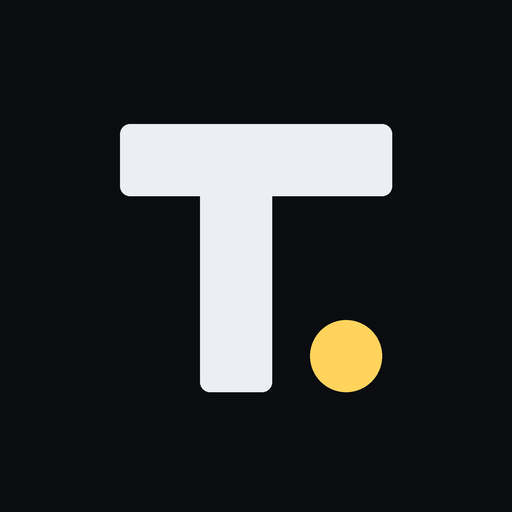
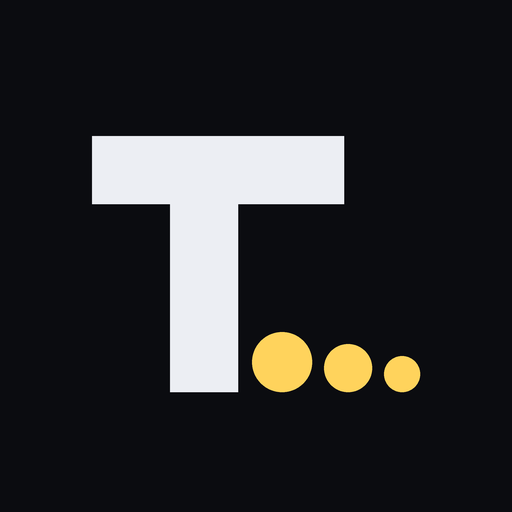
名前を T.OF... に変え、ロゴを作った

Changed region(s): [[0.1562, 0.2188, 0.8438, 0.7812]]

diff --git a/index.html b/index.html
@@ -4,12 +4,12 @@
   <meta charset="UTF-8">
   <meta name="viewport" content="width=device-width, initial-scale=1, viewport-fit=cover">
   <meta name="theme-color" content="#0b0c10">
-  <meta name="description" content="T.OFO が作っている、ブラウザで遊べる小さなゲームとアプリの一覧。どれも無料で、ホーム画面に追加すればオフラインでも動きます。">
-  <title>T.OFO — ゲームとアプリ</title>
+  <meta name="description" content="T.OF... が作っている、ブラウザで遊べる小さなゲームとアプリの一覧。どれも無料で、ホーム画面に追加すればオフラインでも動きます。">
+  <title>T.OF... — ゲームとアプリ</title>
 
   <meta property="og:type" content="website">
-  <meta property="og:site_name" content="T.OFO">
-  <meta property="og:title" content="T.OFO — ゲームとアプリ">
+  <meta property="og:site_name" content="T.OF...">
+  <meta property="og:title" content="T.OF... — ゲームとアプリ">
   <meta property="og:description" content="ブラウザで遊べる小さなゲームとアプリ。どれも無料、ホーム画面に追加すればオフラインでも動きます。">
   <meta property="og:url" content="https://sora3141.github.io/">
   <meta property="og:image" content="https://sora3141.github.io/icons/og.png">
@@ -20,7 +20,7 @@
 
   <meta name="apple-mobile-web-app-capable" content="yes">
   <meta name="mobile-web-app-capable" content="yes">
-  <meta name="apple-mobile-web-app-title" content="T.OFO">
+  <meta name="apple-mobile-web-app-title" content="T.OF...">
   <link rel="manifest" href="./manifest.webmanifest">
   <link rel="icon" href="./icons/icon.svg" type="image/svg+xml">
   <link rel="icon" type="image/png" sizes="32x32" href="./icons/favicon-32.png">
@@ -35,19 +35,18 @@
 <body>
   <div class="page">
     <header class="top">
-      <a class="brand" href="./" aria-label="T.OFO トップ">
-        <img class="brand__mark" src="./icons/icon.svg" alt="" width="32" height="32">
-        <span class="brand__name">T.OFO</span>
+      <a class="brand" href="./">
+        <img class="brand__logo" src="./logo/tof-wordmark.svg" alt="T.OF..." width="107" height="44">
       </a>
       <nav class="top__nav">
         <a href="#apps">アプリ</a>
-        <a href="#about">T.OFO について</a>
+        <a href="#about">T.OF... について</a>
         <button class="chip" data-wak="install" hidden>アプリにする</button>
       </nav>
     </header>
 
     <section class="hero">
-      <p class="hero__eyebrow">T.OFO</p>
+      <p class="hero__eyebrow">T.OF...</p>
       <h1 class="hero__title">ブラウザで遊べる、<br>小さなゲームとアプリ。</h1>
       <p class="hero__lead">
         どれも無料で、インストールもアカウントもいりません。
@@ -69,10 +68,10 @@
     </section>
 
     <section id="about" class="about" aria-labelledby="about-title">
-      <h2 id="about-title" class="section-title">T.OFO について</h2>
+      <h2 id="about-title" class="section-title">T.OF... について</h2>
       <div class="about__body">
         <p>
-          T.OFO は、個人でゲームや Web アプリを作っている制作レーベルです。
+          T.OF... は、個人でゲームや Web アプリを作っている制作レーベルです。
           パズルを中心に、ちょっとした発見のあるものを作っています。
         </p>
         <ul class="facts">
@@ -83,13 +82,13 @@
         </ul>
         <p class="about__links">
           <a href="https://github.com/Sora3141" rel="noopener">GitHub</a>
-          <button class="linklike" data-wak="share" data-wak-text="T.OFO のゲームとアプリ">このページを共有</button>
+          <button class="linklike" data-wak="share" data-wak-text="T.OF... のゲームとアプリ">このページを共有</button>
         </p>
       </div>
     </section>
 
     <footer class="foot">
-      <span>© <span id="year">2026</span> T.OFO</span>
+      <span>© <span id="year">2026</span> T.OF...</span>
     </footer>
   </div>
 

diff --git a/style.css b/style.css
@@ -57,8 +57,7 @@ button { font: inherit; color: inherit; }
   gap: 10px;
   text-decoration: none;
 }
-.brand__mark { border-radius: 9px; }
-.brand__name { font-weight: 700; font-size: 20px; letter-spacing: 0.06em; }
+.brand__logo { display: block; height: 44px; width: auto; margin-left: -7px; }
 .top__nav { display: flex; align-items: center; gap: 18px; font-size: 14px; }
 .top__nav a { color: var(--muted); text-decoration: none; }
 .top__nav a:hover { color: var(--fg); }

diff --git a/main.js b/main.js
@@ -76,5 +76,5 @@
 
   document.getElementById('year').textContent = new Date().getFullYear();
 
-  if (window.WebAppKit) WebAppKit.init({ title: 'T.OFO', text: 'T.OFO のゲームとアプリ' });
+  if (window.WebAppKit) WebAppKit.init({ title: 'T.OF...', text: 'T.OF... のゲームとアプリ' });
 })();

diff --git a/template/index.html b/template/index.html
@@ -45,7 +45,7 @@
     </section>
 
     <footer class="credit">
-      <a href="/">T.OFO</a> のアプリ
+      <a href="/">T.OF...</a> のアプリ
     </footer>
   </main>
 

diff --git a/tools/make-logo.py b/tools/make-logo.py
@@ -1,0 +1,130 @@
+"""T.OF... のロゴとアイコンを作る。  python3 tools/make-logo.py
+Pillow が必要。
+
+文字はフォントを使わず、四角・円・円環だけで組んでいる。どの環境でも同じ形になり、
+SVG と PNG を同じ図形データから作れる。
+
+作るもの
+  logo/tof-wordmark.svg / .png            暗い背景用の文字ロゴ（背景なし）
+  logo/tof-wordmark-light-bg.svg / .png   明るい背景用
+  logo/tof-mark.svg / .png                アイコン（角丸の背景つき）
+  logo/tof-mark-transparent.svg           アイコンの図柄だけ
+  icons/icon.svg, icon-192/512.png, apple-touch-icon.png, favicon-32.png   サイトのアイコン
+"""
+import os
+from PIL import Image, ImageDraw
+
+ROOT = os.path.dirname(os.path.dirname(os.path.abspath(__file__)))
+BG = '#0b0c10'
+DARK = {'fg': '#eceef3', 'accent': '#ffd35c'}     # 暗い背景の上
+LIGHT = {'fg': '#111317', 'accent': '#e0a800'}    # 明るい背景の上
+
+# ---------- 文字ロゴ（字の高さ = 100） ----------
+# 図形は ('rect', x, y, w, h, 色) / ('circle', cx, cy, r, 色) / ('ring', cx, cy, r, 太さ, 色)
+# 色は 'fg' か 'accent'
+S = 22          # 線の太さ
+WORD_W = 312    # 幅
+WORD = [
+    # T
+    ('rect', 0, 0, 84, 22, 'fg'), ('rect', 31, 0, S, 100, 'fg'),
+    # . （T の横棒の下にもぐらせる）
+    ('circle', 75, 88, 12, 'accent'),
+    # O
+    ('ring', 147, 50, 51, S, 'fg'),
+    # F
+    ('rect', 212, 0, S, 100, 'fg'), ('rect', 212, 0, 68, 22, 'fg'), ('rect', 212, 41, 56, 20, 'fg'),
+    # ... T の「.」と同じく F の腕の下にもぐらせ、右へ行くほど小さくして余韻を出す。下端はベースラインにそろえる
+    ('circle', 252, 88, 12, 'accent'), ('circle', 281, 90.5, 9.5, 'accent'), ('circle', 305, 93, 7, 'accent'),
+]
+
+# ---------- アイコン（512 マス） ----------
+# 絵柄は中央 80%（半径 204）に収まっているので、そのまま maskable にも使える
+MARK = [
+    ('rect', 92, 136, 252, 68, 'fg'), ('rect', 170, 136, 68, 256, 'fg'),
+    ('circle', 282, 362, 30, 'accent'), ('circle', 348, 368, 24, 'accent'), ('circle', 402, 374, 18, 'accent'),
+]
+
+
+def svg_shapes(shapes, pal):
+    out = []
+    for s in shapes:
+        kind, color = s[0], pal[s[-1]]
+        if kind == 'rect':
+            _, x, y, w, h, _ = s
+            out.append(f'<rect x="{x}" y="{y}" width="{w}" height="{h}" fill="{color}"/>')
+        elif kind == 'circle':
+            _, cx, cy, r, _ = s
+            out.append(f'<circle cx="{cx}" cy="{cy}" r="{r}" fill="{color}"/>')
+        else:
+            _, cx, cy, r, t, _ = s
+            out.append(f'<circle cx="{cx}" cy="{cy}" r="{r - t / 2}" fill="none" stroke="{color}" stroke-width="{t}"/>')
+    return ''.join(out)
+
+
+def png_shapes(shapes, pal, scale, size, offset=(0, 0), bg=None, radius=0):
+    ss = 4  # 大きく描いて縮めると縁がなめらかになる
+    k = scale * ss
+    ox, oy = offset[0] * ss, offset[1] * ss
+    W, H = size[0] * ss, size[1] * ss
+    im = Image.new('RGBA', (W, H), (0, 0, 0, 0))
+    d = ImageDraw.Draw(im)
+    if bg:
+        d.rounded_rectangle((0, 0, W - 1, H - 1), radius=radius * ss, fill=bg)
+    for s in shapes:
+        kind = s[0]
+        if kind == 'rect':
+            _, x, y, w, h, c = s
+            d.rectangle((ox + x * k, oy + y * k, ox + (x + w) * k, oy + (y + h) * k), fill=pal[c])
+        elif kind == 'circle':
+            _, cx, cy, r, c = s
+            d.ellipse((ox + (cx - r) * k, oy + (cy - r) * k, ox + (cx + r) * k, oy + (cy + r) * k), fill=pal[c])
+        else:
+            _, cx, cy, r, t, c = s
+            layer = Image.new('L', (W, H), 0)
+            ld = ImageDraw.Draw(layer)
+            ld.ellipse((ox + (cx - r) * k, oy + (cy - r) * k, ox + (cx + r) * k, oy + (cy + r) * k), fill=255)
+            ri = r - t
+            ld.ellipse((ox + (cx - ri) * k, oy + (cy - ri) * k, ox + (cx + ri) * k, oy + (cy + ri) * k), fill=0)
+            im.paste(Image.new('RGBA', (W, H), pal[c]), (0, 0), layer)
+    return im.resize(size, Image.LANCZOS)
+
+
+def path(*p):
+    return os.path.join(ROOT, *p)
+
+
+def write(name, text):
+    with open(path(name), 'w', encoding='utf-8') as f:
+        f.write(text + '\n')
+
+
+def wordmark_png(pal, width):
+    pad = 0.06 * WORD_W
+    scale = width / (WORD_W + 2 * pad)
+    size = (width, round((100 + 2 * pad) * scale))
+    return png_shapes(WORD, pal, scale, size, offset=(pad * scale, pad * scale))
+
+
+def mark_png(size, rounded):
+    return png_shapes(MARK, DARK, size / 512, (size, size), bg=BG, radius=112 * size / 512 if rounded else 0)
+
+
+if __name__ == '__main__':
+    os.makedirs(path('logo'), exist_ok=True)
+    pad = 24
+    vb = f'{-pad} {-pad} {WORD_W + 2 * pad} {100 + 2 * pad}'
+    write('logo/tof-wordmark.svg', f'<svg xmlns="http://www.w3.org/2000/svg" viewBox="{vb}">{svg_shapes(WORD, DARK)}</svg>')
+    write('logo/tof-wordmark-light-bg.svg', f'<svg xmlns="http://www.w3.org/2000/svg" viewBox="{vb}">{svg_shapes(WORD, LIGHT)}</svg>')
+    mark = svg_shapes(MARK, DARK)
+    write('logo/tof-mark-transparent.svg', f'<svg xmlns="http://www.w3.org/2000/svg" viewBox="0 0 512 512">{mark}</svg>')
+    for name in ('logo/tof-mark.svg', 'icons/icon.svg'):
+        write(name, f'<svg xmlns="http://www.w3.org/2000/svg" viewBox="0 0 512 512"><rect width="512" height="512" rx="112" fill="{BG}"/>{mark}</svg>')
+
+    wordmark_png(DARK, 1200).save(path('logo/tof-wordmark.png'))
+    wordmark_png(LIGHT, 1200).save(path('logo/tof-wordmark-light-bg.png'))
+    mark_png(1024, rounded=True).save(path('logo/tof-mark.png'))
+    mark_png(512, rounded=False).save(path('icons/icon-512.png'))
+    mark_png(192, rounded=False).save(path('icons/icon-192.png'))
+    mark_png(180, rounded=False).convert('RGB').save(path('icons/apple-touch-icon.png'))
+    mark_png(32, rounded=True).save(path('icons/favicon-32.png'))
+    print('ok')

diff --git a/tools/make-icons.py b/tools/make-icons.py
@@ -1,6 +1,7 @@
-"""ポータルのアイコンと OGP 画像を作る。  python3 tools/make-icons.py
-Pillow が必要。マークの形は icons/icon.svg と同じ（512 マスの座標）。"""
-import io, os, urllib.request
+"""ポータルの OGP 画像（icons/og.png）を作る。  python3 tools/make-icons.py
+先に tools/make-logo.py を実行して、ロゴとアイコンを作っておくこと（この中からも呼ぶ）。
+Pillow が必要。右側には apps.js のアプリのアイコンを本番サイトから取ってきて並べる。"""
+import io, os, runpy, urllib.request
 from PIL import Image, ImageDraw, ImageFont
 
 ROOT = os.path.dirname(os.path.dirname(os.path.abspath(__file__)))
@@ -8,41 +9,22 @@ BG, FG, ACCENT = (11, 12, 16), (236, 238, 243), (255, 211, 92)
 JP_BOLD = '/System/Library/Fonts/ヒラギノ角ゴシック W7.ttc'
 JP = '/System/Library/Fonts/ヒラギノ角ゴシック W4.ttc'
 
-
-def mark(size, rounded=False, bg=BG):
-    s = 4  # 大きく描いて縮めると縁がなめらかになる
-    n = size * s
-    k = n / 512
-    im = Image.new('RGBA', (n, n), (0, 0, 0, 0))
-    d = ImageDraw.Draw(im)
-    if rounded:
-        d.rounded_rectangle((0, 0, n - 1, n - 1), radius=112 * k, fill=bg)
-    else:
-        d.rectangle((0, 0, n, n), fill=bg)
-    d.rounded_rectangle((120 * k, 124 * k, 392 * k, 196 * k), radius=10 * k, fill=FG)   # T の横棒
-    d.rounded_rectangle((200 * k, 124 * k, 272 * k, 392 * k), radius=10 * k, fill=FG)   # T の縦棒
-    d.ellipse((310 * k, 320 * k, 382 * k, 392 * k), fill=ACCENT)                        # ドット
-    return im.resize((size, size), Image.LANCZOS)
+runpy.run_path(os.path.join(ROOT, 'tools', 'make-logo.py'), run_name='__main__')
 
 
 def save(im, name):
     im.save(os.path.join(ROOT, 'icons', name))
 
 
-save(mark(512), 'icon-512.png')
-save(mark(192), 'icon-192.png')
-save(mark(180).convert('RGB'), 'apple-touch-icon.png')
-save(mark(32, rounded=True), 'favicon-32.png')
-
-# OGP 画像 1200×630: 左にマークと名前、右に各アプリのアイコン
+# OGP 画像 1200×630: 左に文字ロゴと説明、右に各アプリのアイコン
 og = Image.new('RGB', (1200, 630), BG)
 d = ImageDraw.Draw(og)
-m0 = mark(120, rounded=True, bg=(26, 29, 37))
-og.paste(m0, (80, 90), m0)
-d.text((80, 250), 'T.OFO', font=ImageFont.truetype(JP_BOLD, 96), fill=FG)
-d.text((84, 380), 'ブラウザで遊べる、小さなゲームとアプリ。', font=ImageFont.truetype(JP_BOLD, 34), fill=FG)
-d.text((84, 440), '無料・インストール不要・オフライン対応', font=ImageFont.truetype(JP, 28), fill=(154, 160, 171))
-d.rectangle((84, 520, 164, 526), fill=ACCENT)
+word = Image.open(os.path.join(ROOT, 'logo', 'tof-wordmark.png'))
+word = word.resize((600, round(word.height * 600 / word.width)), Image.LANCZOS)
+og.paste(word, (48, 112), word)
+d.text((84, 345), 'ブラウザで遊べる、小さなゲームとアプリ。', font=ImageFont.truetype(JP_BOLD, 34), fill=FG)
+d.text((84, 405), '無料・インストール不要・オフライン対応', font=ImageFont.truetype(JP, 28), fill=(154, 160, 171))
+d.rectangle((84, 486, 164, 492), fill=ACCENT)
 
 icons = []
 with open(os.path.join(ROOT, 'apps.js'), encoding='utf-8') as f:

diff --git a/tools/placeholder-icons.py b/tools/placeholder-icons.py
@@ -30,5 +30,5 @@ with open(os.path.join(out, 'icon.svg'), 'w', encoding='utf-8') as f:
 og = Image.new('RGB', (1200, 630), bg)
 d = ImageDraw.Draw(og)
 d.text((600, 300), name, font=ImageFont.truetype(FONT, 110), fill='#eceef3', anchor='mm')
-d.text((600, 420), 'T.OFO', font=ImageFont.truetype(FONT, 32), fill='#9aa0ab', anchor='mm')
+d.text((600, 420), 'T.OF...', font=ImageFont.truetype(FONT, 32), fill='#9aa0ab', anchor='mm')
 og.save(os.path.join(out, 'og.png'))

diff --git a/RULES.md b/RULES.md
@@ -1,6 +1,6 @@
-# T.OFO アプリ制作ルール
+# T.OF... アプリ制作ルール
 
-T.OFO（https://sora3141.github.io/）で公開する Web アプリに共通するルールと必須事項。
+T.OF...（https://sora3141.github.io/）で公開する Web アプリに共通するルールと必須事項。
 新しいアプリを作るときも、既存のアプリを直すときも、これに合わせる。
 
 - 必須 = 公開前に必ず満たす
@@ -146,10 +146,11 @@ keys.filter((k) => k.startsWith(PREFIX) && k !== CACHE).map((k) => caches.delete
 
 ## 7. 制作元の表記
 
-- **必須** アプリのどこか（タイトル画面の下、設定、フッターなど）に **T.OFO へのリンク** を置く。
-  `<a href="/">T.OFO</a>` でポータルに戻れる。ゲーム画面を邪魔しない場所でよい。
-- **推奨** README の「リンク」に `制作: [T.OFO](https://sora3141.github.io/)` を入れる。
-- 名前の表記は **T.OFO**（大文字、ピリオド 1 つ）。
+- **必須** アプリのどこか（タイトル画面の下、設定、フッターなど）に **T.OF... へのリンク** を置く。
+  `<a href="/">T.OF...</a>` でポータルに戻れる。ゲーム画面を邪魔しない場所でよい。
+- **推奨** README の「リンク」に `制作: [T.OF...](https://sora3141.github.io/)` を入れる。
+- 名前の表記は **T.OF...**（大文字。T の後にピリオド 1 つ、最後に半角ピリオド 3 つ）。
+- ロゴは [`logo/`](logo/) にある（作り直すときは `python3 tools/make-logo.py`）。
 
 ## 8. README
 
@@ -159,7 +160,7 @@ keys.filter((k) => k.startsWith(PREFIX) && k !== CACHE).map((k) => caches.delete
 # アプリ名 — ひとこと
 説明 1〜2 文
 
-## 🔗 リンク          遊ぶ URL / 制作: T.OFO
+## 🔗 リンク          遊ぶ URL / 制作: T.OF...
 ## 遊び方             ルールと操作
 ## アプリとして入れる（PWA）
 ## 開発               ローカルでの動かし方・テストの走らせ方
@@ -204,7 +205,7 @@ keys.filter((k) => k.startsWith(PREFIX) && k !== CACHE).map((k) => caches.delete
 - [ ] iPhone でホーム画面に追加 → 上部が隠れない、下端のボタンが押せる
 - [ ] Android / PC Chrome で「アプリにする」が出る、インストール後は消える
 - [ ] 共有ボタンが動く（共有シート or リンクコピー）
-- [ ] T.OFO へのリンクがある
+- [ ] T.OF... へのリンクがある
 - [ ] README の見出しがそろっている
 - [ ] ポータルの apps.js に追加した
 ```
@@ -233,7 +234,7 @@ gh api -X POST repos/Sora3141/<id>/pages -f 'source[branch]=main' -f 'source[pat
 
 ## 既存アプリの対応状況（2026-09-24 時点）
 
-2026-09-24 に直したもの: 他アプリのキャッシュを消す SW（4 本）、`black-translucent`（5 本）、pentris / coord-maze のオフライン対応、全 7 本への T.OFO リンク、insider / score-othello / cube-othello の PWA 化と一覧への追加（この 3 本は RULES に沿って作り直したので残りなし）。
+2026-09-24 に直したもの: 他アプリのキャッシュを消す SW（4 本）、`black-translucent`（5 本）、pentris / coord-maze のオフライン対応、全 7 本への T.OF... リンク、insider / score-othello / cube-othello の PWA 化と一覧への追加（この 3 本は RULES に沿って作り直したので残りなし）。
 
 残っている差分（急ぎではない。触るついでに直す）:
 
@@ -245,4 +246,4 @@ gh api -X POST repos/Sora3141/<id>/pages -f 'source[branch]=main' -f 'source[pat
 | glyph-shift | OGP・`og.png`・`icon.svg` がない、インストール・共有ボタンがない |
 | hue-hunter | localStorage の読み書きに try/catch がない、不要な `ads.txt` が残っている |
 | core-image-english | 共有ボタンと iPhone 向けのインストール案内がない、OGP・description がない、`html` の背景が `theme-color` と違う（意図的） |
-| Half-Cut | README に T.OFO の表記がまだない |
+| Half-Cut | README に T.OF... の表記がまだない |

diff --git a/README.md b/README.md
@@ -1,6 +1,6 @@
-# T.OFO
+# T.OF...
 
-T.OFO のゲームとアプリの一覧サイト。 → https://sora3141.github.io/
+T.OF... のゲームとアプリの一覧サイト。 → https://sora3141.github.io/
 
 あわせて、アプリを作るときの共通ルールと道具もここにまとめている。
 

diff --git a/template/README.md b/template/README.md
@@ -5,7 +5,7 @@ __DESC__
 ## 🔗 リンク
 
 - 遊ぶ: https://sora3141.github.io/__ID__/
-- 制作: [T.OFO](https://sora3141.github.io/)
+- 制作: [T.OF...](https://sora3141.github.io/)
 
 ## 遊び方
 
